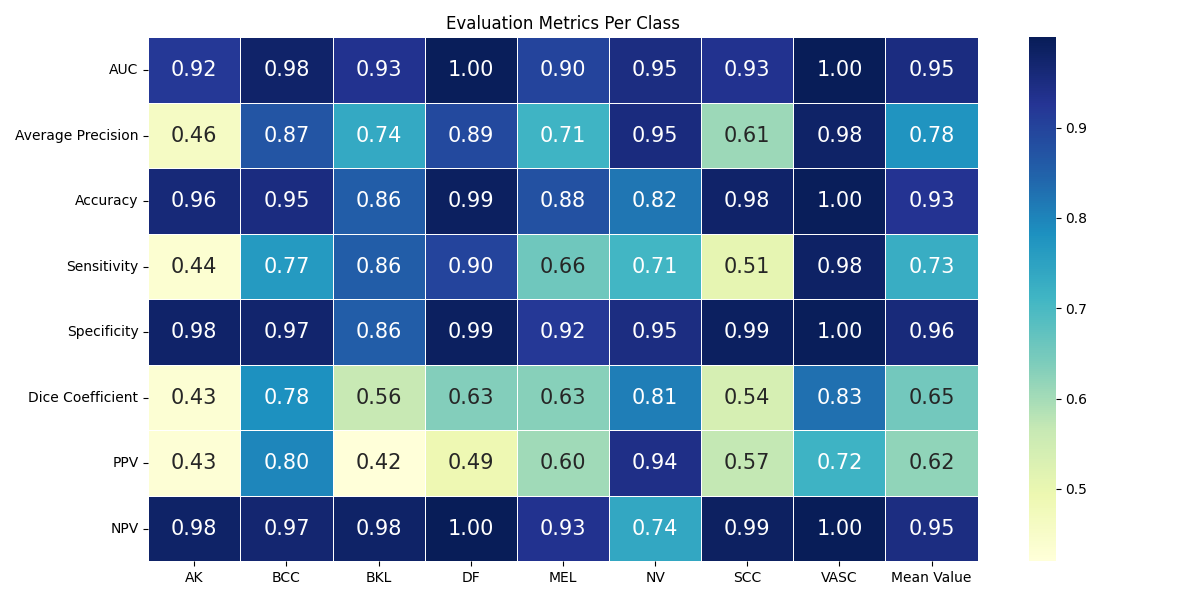
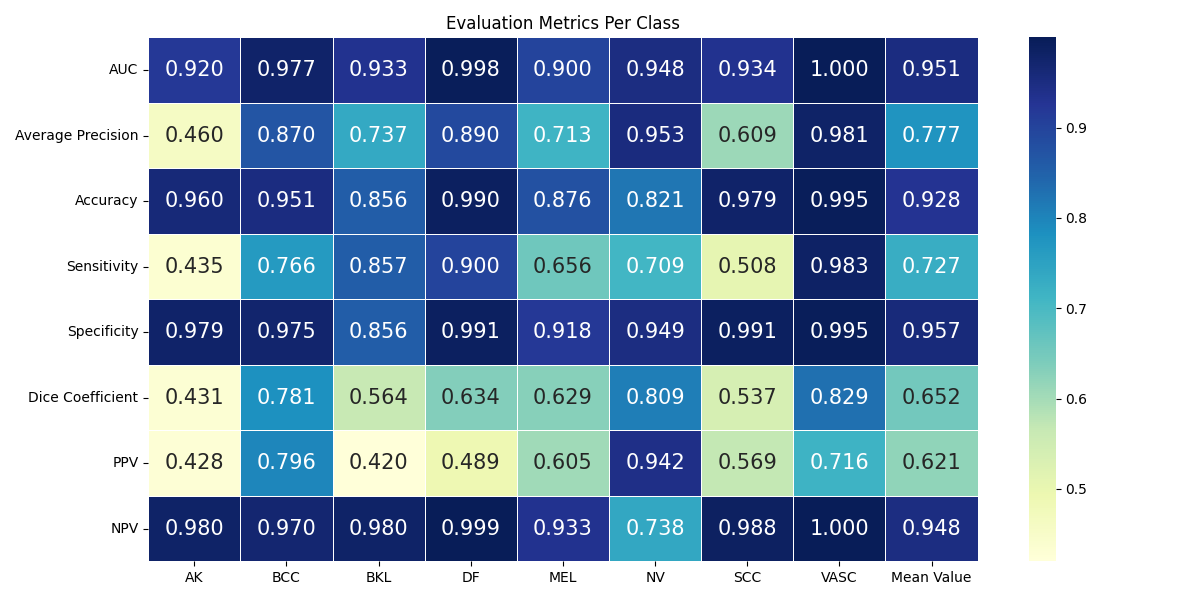
update graphs

diff --git a/ML_Model/evaluate_metric_table.py b/ML_Model/evaluate_metric_table.py
@@ -12,7 +12,7 @@ from sklearn.preprocessing import label_binarize
 
 base_dir = r"D:\Project\Tumor"
 val_dir = os.path.join(base_dir, "val")
-model_path = os.path.join(base_dir, "tumor_classifier.h5")
+model_path = os.path.join(base_dir, "ML_Model", "tumor_classifier.h5")
 
 model = load_model(model_path)
 
@@ -63,7 +63,7 @@ df.loc["Mean Value"] = df.mean()
 df = df.T 
 
 plt.figure(figsize=(12, 6))
-sns.heatmap(df, annot=True, fmt=".2f", cmap="YlGnBu",
+sns.heatmap(df, annot=True, fmt=".3f", cmap="YlGnBu",
             annot_kws={"fontsize": 15}, 
             cbar=True, linewidths=0.5)
 plt.title("Evaluation Metrics Per Class")
